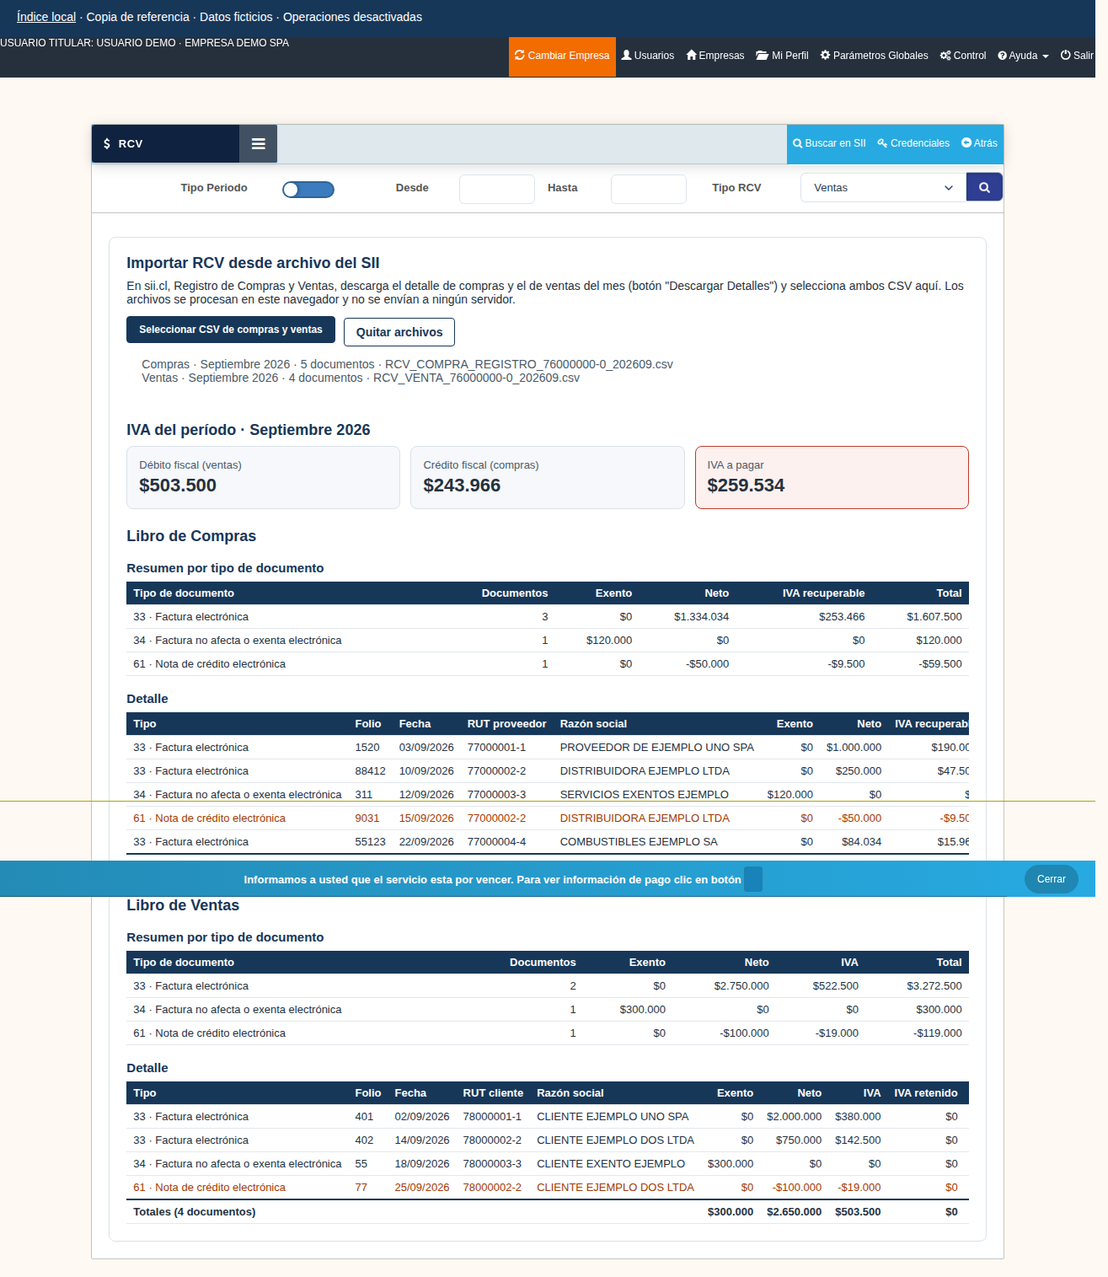
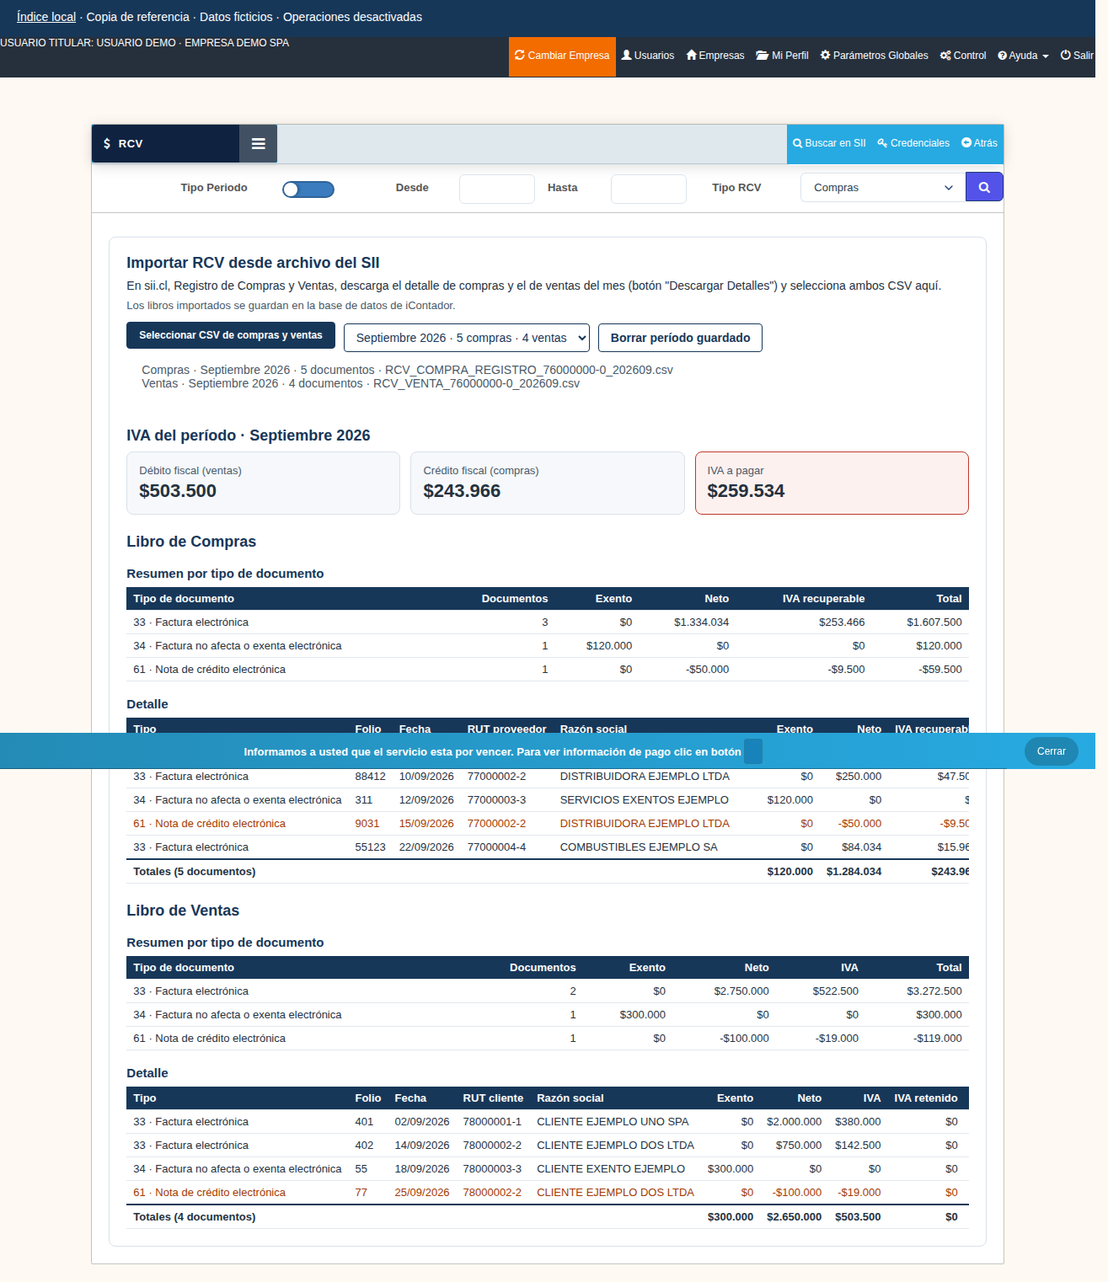
RCV: guardar los libros importados en una base de datos con PHP
API PHP con PDO (MySQL configurable, SQLite por defecto) que guarda,
lee y borra los documentos del RCV por período. La pantalla RCV guarda
cada importación y vuelve a mostrar los períodos guardados; sin servidor
PHP sigue funcionando solo en el navegador.

Claude-Session: https://claude.ai/code/session_01CVbciLJvmELGSoH7d6rteB

diff --git a/assets/rcv-import.js b/assets/rcv-import.js
@@ -49,7 +49,9 @@
  const COMPRAS_FIELDS=['exento','neto','iva','ivaNoRec','ivaUsoComun','otros','total'];
  const VENTAS_FIELDS=['exento','neto','iva','ivaRetenido','otros','total'];
  function buildBooks(parsed){
-  const compras=parsed.filter(p=>p.kind==='compras').flatMap(p=>p.docs),ventas=parsed.filter(p=>p.kind==='ventas').flatMap(p=>p.docs);
+  // Los documentos leídos desde la base de datos no traen nombre de tipo ni signo: se recalculan aquí.
+  const prep=d=>({...d,tipoNombre:DOC_TYPES[d.tipo]||('Documento '+d.tipo),signo:CREDIT_NOTES.has(d.tipo)?-1:1});
+  const compras=parsed.filter(p=>p.kind==='compras').flatMap(p=>p.docs.map(prep)),ventas=parsed.filter(p=>p.kind==='ventas').flatMap(p=>p.docs.map(prep));
   const tc=totals(compras,COMPRAS_FIELDS),tv=totals(ventas,VENTAS_FIELDS);
   // Débito: IVA de ventas menos el IVA retenido por el comprador (cambio de sujeto). Crédito: IVA recuperable de compras.
   const debito=tv.iva-tv.ivaRetenido,credito=tc.iva,diferencia=debito-credito;
@@ -89,38 +91,78 @@
   return el('section',{class:'rcv-iva'},el('h3',null,'IVA del período · '+formatPeriod(books.period)),el('div',{class:'rcv-cards'},card('Débito fiscal (ventas)',money(i.debito)),card('Crédito fiscal (compras)',money(i.credito)),card(result[0],result[1],result[2])),...notes.map(n=>el('p',{class:'rcv-note'},n)));
  }
 
- const state={files:[]};
+ // Con el servidor PHP (api/rcv.php) los libros se guardan en la base de datos; sin él, solo se muestran en este navegador.
+ const API='../api/rcv.php';
+ const state={files:[],server:false,periods:[],period:null};
+ async function request(method,query,body){
+  const res=await fetch(API+(query||''),{method,headers:body?{'Content-Type':'application/json'}:{},body:body?JSON.stringify(body):undefined});
+  const data=await res.json().catch(()=>({}));if(!res.ok)throw new Error(data.error||('Error '+res.status+' del servidor.'));return data;
+ }
+ function setMsg(text){document.getElementById('rcv-import-msg').textContent=text||'';}
  function render(){
-  const out=document.getElementById('rcv-import-result'),msg=document.getElementById('rcv-import-msg');out.replaceChildren();
+  const out=document.getElementById('rcv-import-result');out.replaceChildren();
   const list=document.getElementById('rcv-import-files');list.replaceChildren(...state.files.map(f=>el('li',null,(f.kind==='compras'?'Compras':'Ventas')+' · '+formatPeriod(f.period)+' · '+f.docs.length+' documentos · '+f.fileName)));
-  document.getElementById('rcv-import-clear').hidden=!state.files.length;
+  const clear=document.getElementById('rcv-import-clear');clear.hidden=!state.files.length;clear.textContent=state.server?'Borrar período guardado':'Quitar archivos';
+  const select=document.getElementById('rcv-import-periods');select.hidden=!state.server||!state.periods.length;
+  select.replaceChildren(el('option',{value:''},'Períodos guardados'),...state.periods.map(p=>{const o=el('option',{value:p.period},formatPeriod(p.period)+' · '+p.compras+' compras · '+p.ventas+' ventas');if(p.period===state.period)o.selected=true;return o;}));
   const welcome=document.querySelector('#contenido_rcv .welcome-royal-container')?.closest('.container-fluid');if(welcome)welcome.style.display=state.files.length?'none':'';
   if(!state.files.length)return;
   const books=buildBooks(state.files);
-  if(books.periods.length>1)msg.textContent='Los archivos cargados son de períodos distintos ('+books.periods.map(formatPeriod).join(', ')+'). El IVA suma todos los documentos.';
+  if(books.periods.length>1)setMsg('Los archivos cargados son de períodos distintos ('+books.periods.map(formatPeriod).join(', ')+'). El IVA suma todos los documentos.');
   out.append(ivaSection(books),bookSection('compras',books.compras),bookSection('ventas',books.ventas));
  }
+ async function openPeriod(period){
+  state.period=period||null;
+  state.files=period?(await request('GET','?periodo='+encodeURIComponent(period))).libros:[];
+  render();
+ }
+ async function refreshPeriods(){state.periods=(await request('GET')).periodos;}
  function showBook(){const select=document.getElementById('rcv_filtro_tipoRCV');const kind=select&&select.selectedIndex===1?'ventas':'compras';document.querySelector('#rcv-import-result .rcv-book[data-book="'+kind+'"]')?.scrollIntoView({behavior:'smooth',block:'start'});}
  async function readFile(file){const buf=await file.arrayBuffer();try{return new TextDecoder('utf-8',{fatal:true}).decode(buf);}catch{return new TextDecoder('windows-1252').decode(buf);}}
  async function load(files){
-  const msg=document.getElementById('rcv-import-msg');msg.textContent='';const errors=[];
-  for(const file of files){try{const parsed=parseRcv(await readFile(file),file.name);state.files=state.files.filter(f=>!(f.kind===parsed.kind&&f.period===parsed.period));state.files.push(parsed);}catch(e){errors.push(file.name+': '+e.message);}}
-  render();if(errors.length)msg.textContent=errors.join(' ');
+  setMsg('');const errors=[],parsedFiles=[];
+  for(const file of files){try{parsedFiles.push(parseRcv(await readFile(file),file.name));}catch(e){errors.push(file.name+': '+e.message);}}
+  if(state.server){
+   let saved=null;
+   for(const parsed of parsedFiles){
+    if(!parsed.period){errors.push(parsed.fileName+': no se pudo determinar el período.');continue;}
+    try{await request('POST','',{kind:parsed.kind,period:parsed.period,fileName:parsed.fileName,docs:parsed.docs});saved=parsed.period;}catch(e){errors.push(parsed.fileName+': '+e.message);}
+   }
+   try{await refreshPeriods();if(saved)await openPeriod(saved);else render();}catch(e){errors.push(e.message);}
+  }else{
+   for(const parsed of parsedFiles){state.files=state.files.filter(f=>!(f.kind===parsed.kind&&f.period===parsed.period));state.files.push(parsed);}
+   render();
+  }
+  if(errors.length)setMsg(errors.join(' '));
+ }
+ async function clearAll(){
+  if(!state.server){state.files=[];setMsg('');render();return;}
+  if(!state.period||!window.confirm('¿Borrar de la base de datos los libros de '+formatPeriod(state.period)+'?'))return;
+  try{await request('DELETE','?periodo='+encodeURIComponent(state.period));await refreshPeriods();await openPeriod(null);setMsg('');}catch(e){setMsg(e.message);}
+ }
+ async function connect(){
+  const note=document.getElementById('rcv-import-storage');
+  try{await refreshPeriods();state.server=true;note.textContent='Los libros importados se guardan en la base de datos de iContador.';if(state.periods.length)await openPeriod(state.periods[0].period);else render();}
+  catch{state.server=false;note.textContent='Sin servidor PHP: los archivos se procesan en este navegador y no se guardan. Inicia la copia con "npm run start:php" para guardarlos.';render();}
  }
  function init(){
   const host=document.getElementById('contenido_rcv');if(!host)return;
   const input=el('input',{type:'file',id:'rcv-import-input',accept:'.csv,text/csv',multiple:''});
   const clear=el('button',{type:'button',id:'rcv-import-clear',class:'rcv-btn-secondary'},'Quitar archivos');clear.hidden=true;
+  const periods=el('select',{id:'rcv-import-periods',class:'rcv-select','aria-label':'Períodos guardados'});periods.hidden=true;
   const panel=el('div',{class:'rcv-import',id:'rcv-import'},
    el('h3',null,'Importar RCV desde archivo del SII'),
-   el('p',null,'En sii.cl, Registro de Compras y Ventas, descarga el detalle de compras y el de ventas del mes (botón "Descargar Detalles") y selecciona ambos CSV aquí. Los archivos se procesan en este navegador y no se envían a ningún servidor.'),
-   el('div',{class:'rcv-import-actions'},el('label',{class:'rcv-btn',for:'rcv-import-input'},'Seleccionar CSV de compras y ventas'),input,clear),
+   el('p',null,'En sii.cl, Registro de Compras y Ventas, descarga el detalle de compras y el de ventas del mes (botón "Descargar Detalles") y selecciona ambos CSV aquí.'),
+   el('p',{id:'rcv-import-storage',class:'rcv-note'}),
+   el('div',{class:'rcv-import-actions'},el('label',{class:'rcv-btn',for:'rcv-import-input'},'Seleccionar CSV de compras y ventas'),input,periods,clear),
    el('ul',{id:'rcv-import-files',class:'rcv-files'}),el('p',{id:'rcv-import-msg',class:'rcv-msg',role:'status'}),el('div',{id:'rcv-import-result'}));
   host.prepend(panel);
   input.addEventListener('change',()=>{load([...input.files]);input.value='';});
-  clear.addEventListener('click',e=>{e.stopPropagation();state.files=[];document.getElementById('rcv-import-msg').textContent='';render();});
-  // Con archivos cargados, la lupa de "Tipo RCV" lleva al libro elegido en vez del aviso de operación desactivada.
+  periods.addEventListener('change',()=>{openPeriod(periods.value).catch(e=>setMsg(e.message));});
+  clear.addEventListener('click',e=>{e.stopPropagation();clearAll();});
+  // Con libros cargados, la lupa de "Tipo RCV" lleva al libro elegido en vez del aviso de operación desactivada.
   document.getElementById('btn_rcv_filtro')?.addEventListener('click',e=>{if(!state.files.length)return;e.preventDefault();e.stopPropagation();showBook();});
+  connect();
  }
  if(document.readyState==='loading')document.addEventListener('DOMContentLoaded',init);else init();
 })(typeof window!=='undefined'?window:globalThis);

diff --git a/views/rcv.html b/views/rcv.html
@@ -1,5 +1,5 @@
 <!doctype html>
-<html lang="en"><head><meta charset="utf-8"><meta http-equiv="Content-Security-Policy" content="default-src 'none'; img-src 'self' data:; style-src 'self' 'unsafe-inline'; font-src 'self'; script-src 'self'; connect-src 'none'; form-action 'none'; base-uri 'none'">
+<html lang="en"><head><meta charset="utf-8"><meta http-equiv="Content-Security-Policy" content="default-src 'none'; img-src 'self' data:; style-src 'self' 'unsafe-inline'; font-src 'self'; script-src 'self'; connect-src 'self'; form-action 'none'; base-uri 'none'">
         
         <meta name="description" content="Contabilidad, remuneraciones Icontador, Programa contable, Software de remuneraciones, contable. Plan de cuentas en Contabilidad online.">
         <meta name="keywords" content="Software contable, Software de remuneraciones, remuneraciones, contabilidad, sistema contable, contabilidad online, programa contable, plan de cuentas">

diff --git a/assets/rcv-import.css b/assets/rcv-import.css
@@ -15,3 +15,4 @@
 .rcv-table th,.rcv-table td{padding:6px 8px;border-bottom:1px solid #e3e8ee;text-align:left;white-space:nowrap}
 .rcv-table th{background:#173759;color:#fff}.rcv-table .num{text-align:right;font-variant-numeric:tabular-nums}
 .rcv-table tfoot td{font-weight:bold;border-top:2px solid #173759}.rcv-table tr.rcv-nc td{color:#a33a00}.rcv-empty{color:#4a5a69}
+.rcv-select{padding:7px 10px;border:1px solid #173759;border-radius:4px;background:#fff;color:#173759}

diff --git a/api/lib/rcv.php b/api/lib/rcv.php
@@ -1,0 +1,105 @@
+<?php
+declare(strict_types=1);
+/* Persistencia del RCV: documentos de compras y ventas por período. */
+
+const RCV_LIBROS = ['compras', 'ventas'];
+const RCV_MONTOS = ['exento', 'neto', 'iva', 'iva_no_rec', 'iva_uso_comun', 'iva_retenido', 'otros', 'total'];
+// Nombre en la API (JavaScript) => columna
+const RCV_CAMPOS = ['tipo' => 'tipo_doc', 'tipoOperacion' => 'tipo_operacion', 'rut' => 'rut', 'razon' => 'razon_social', 'folio' => 'folio', 'fecha' => 'fecha',
+    'exento' => 'exento', 'neto' => 'neto', 'iva' => 'iva', 'ivaNoRec' => 'iva_no_rec', 'ivaUsoComun' => 'iva_uso_comun', 'ivaRetenido' => 'iva_retenido', 'otros' => 'otros', 'total' => 'total'];
+const RCV_TEXTOS = ['tipo_operacion' => 60, 'rut' => 12, 'razon_social' => 255, 'folio' => 20, 'fecha' => 10];
+const RCV_MAX_DOCUMENTOS = 20000;
+
+final class RcvError extends RuntimeException {}
+
+function rcv_schema(PDO $db): void {
+    if ($db->getAttribute(PDO::ATTR_DRIVER_NAME) === 'mysql') {
+        $db->exec(file_get_contents(dirname(__DIR__) . '/schema/rcv.mysql.sql'));
+        return;
+    }
+    $montos = implode(', ', array_map(fn($c) => "$c INTEGER NOT NULL DEFAULT 0", RCV_MONTOS));
+    $db->exec("CREATE TABLE IF NOT EXISTS rcv_documentos (
+        id INTEGER PRIMARY KEY AUTOINCREMENT, periodo TEXT NOT NULL, libro TEXT NOT NULL, archivo TEXT NOT NULL DEFAULT '',
+        tipo_doc INTEGER NOT NULL, tipo_operacion TEXT NOT NULL DEFAULT '', rut TEXT NOT NULL DEFAULT '', razon_social TEXT NOT NULL DEFAULT '',
+        folio TEXT NOT NULL DEFAULT '', fecha TEXT NOT NULL DEFAULT '', $montos, creado_en TEXT NOT NULL DEFAULT CURRENT_TIMESTAMP)");
+    $db->exec('CREATE INDEX IF NOT EXISTS idx_rcv_periodo_libro ON rcv_documentos (periodo, libro)');
+}
+
+function rcv_validar_periodo($periodo): string {
+    if (!is_string($periodo) || !preg_match('/^20\d{2}-(0[1-9]|1[0-2])$/', $periodo)) throw new RcvError('Período inválido; use AAAA-MM.');
+    return $periodo;
+}
+function rcv_validar_libro($libro): string {
+    if (!in_array($libro, RCV_LIBROS, true)) throw new RcvError('Libro inválido; use compras o ventas.');
+    return $libro;
+}
+
+/** Reemplaza los documentos de un libro y período por los recibidos. Devuelve cuántos se guardaron. */
+function rcv_guardar(PDO $db, array $datos): int {
+    $periodo = rcv_validar_periodo($datos['period'] ?? null);
+    $libro = rcv_validar_libro($datos['kind'] ?? null);
+    $docs = $datos['docs'] ?? null;
+    if (!is_array($docs) || !array_is_list($docs)) throw new RcvError('Faltan los documentos.');
+    if (count($docs) > RCV_MAX_DOCUMENTOS) throw new RcvError('Demasiados documentos en un solo archivo.');
+    $archivo = mb_substr(is_string($datos['fileName'] ?? null) ? $datos['fileName'] : '', 0, 255);
+    $filas = [];
+    foreach ($docs as $i => $doc) {
+        if (!is_array($doc)) throw new RcvError('Documento ' . ($i + 1) . ' inválido.');
+        $fila = [];
+        foreach (RCV_CAMPOS as $campo => $columna) {
+            $valor = $doc[$campo] ?? ($columna === 'tipo_doc' ? null : (isset(RCV_TEXTOS[$columna]) ? '' : 0));
+            if ($columna === 'tipo_doc' || in_array($columna, RCV_MONTOS, true)) {
+                if (!is_int($valor) && !(is_float($valor) && floor($valor) === $valor)) throw new RcvError('Documento ' . ($i + 1) . ': ' . $campo . ' debe ser un número entero.');
+                $fila[$columna] = (int)$valor;
+            } else {
+                $fila[$columna] = mb_substr(is_scalar($valor) ? trim((string)$valor) : '', 0, RCV_TEXTOS[$columna]);
+            }
+        }
+        if ($fila['tipo_doc'] <= 0) throw new RcvError('Documento ' . ($i + 1) . ' sin tipo de documento.');
+        $filas[] = $fila;
+    }
+    $columnas = array_merge(['periodo', 'libro', 'archivo'], array_values(RCV_CAMPOS));
+    $insert = $db->prepare('INSERT INTO rcv_documentos (' . implode(', ', $columnas) . ') VALUES (' . implode(', ', array_fill(0, count($columnas), '?')) . ')');
+    $db->beginTransaction();
+    try {
+        $db->prepare('DELETE FROM rcv_documentos WHERE periodo = ? AND libro = ?')->execute([$periodo, $libro]);
+        foreach ($filas as $fila) $insert->execute(array_merge([$periodo, $libro, $archivo], array_values($fila)));
+        $db->commit();
+    } catch (Throwable $e) {
+        $db->rollBack();
+        throw $e;
+    }
+    return count($filas);
+}
+
+/** Documentos de un período agrupados por libro, con la misma forma que produce RcvImport.parseRcv. */
+function rcv_leer(PDO $db, string $periodo): array {
+    $periodo = rcv_validar_periodo($periodo);
+    $st = $db->prepare('SELECT * FROM rcv_documentos WHERE periodo = ? ORDER BY libro, id');
+    $st->execute([$periodo]);
+    $libros = [];
+    foreach ($st as $fila) {
+        $libro = $fila['libro'];
+        $libros[$libro] ??= ['kind' => $libro, 'period' => $periodo, 'fileName' => $fila['archivo'], 'docs' => []];
+        $doc = [];
+        foreach (RCV_CAMPOS as $campo => $columna) $doc[$campo] = ($columna === 'tipo_doc' || in_array($columna, RCV_MONTOS, true)) ? (int)$fila[$columna] : $fila[$columna];
+        $libros[$libro]['docs'][] = $doc;
+    }
+    return array_values($libros);
+}
+
+function rcv_periodos(PDO $db): array {
+    $st = $db->query('SELECT periodo, libro, COUNT(*) AS documentos FROM rcv_documentos GROUP BY periodo, libro ORDER BY periodo DESC, libro');
+    $out = [];
+    foreach ($st as $fila) {
+        $out[$fila['periodo']] ??= ['period' => $fila['periodo'], 'compras' => 0, 'ventas' => 0];
+        $out[$fila['periodo']][$fila['libro']] = (int)$fila['documentos'];
+    }
+    return array_values($out);
+}
+
+function rcv_borrar(PDO $db, string $periodo): int {
+    $st = $db->prepare('DELETE FROM rcv_documentos WHERE periodo = ?');
+    $st->execute([rcv_validar_periodo($periodo)]);
+    return $st->rowCount();
+}

diff --git a/tools/test-rcv-api.php b/tools/test-rcv-api.php
@@ -1,0 +1,27 @@
+<?php
+// Prueba de la persistencia del RCV con SQLite en memoria: php tools/test-rcv-api.php
+declare(strict_types=1);
+require dirname(__DIR__) . '/api/lib/rcv.php';
+function check(bool $ok, string $msg): void { if (!$ok) { fwrite(STDERR, "FALLA: $msg\n"); exit(1); } }
+
+$db = new PDO('sqlite::memory:', null, null, [PDO::ATTR_ERRMODE => PDO::ERRMODE_EXCEPTION, PDO::ATTR_DEFAULT_FETCH_MODE => PDO::FETCH_ASSOC]);
+rcv_schema($db);
+rcv_schema($db); // idempotente
+$compra = ['tipo' => 33, 'tipoOperacion' => 'Del Giro', 'rut' => '77000001-1', 'razon' => 'PROVEEDOR', 'folio' => '1520', 'fecha' => '03/09/2026', 'exento' => 0, 'neto' => 1000000, 'iva' => 190000, 'ivaNoRec' => 0, 'ivaUsoComun' => 0, 'otros' => 0, 'total' => 1190000];
+$nc = ['tipo' => 61, 'folio' => '9', 'neto' => 50000, 'iva' => 9500, 'total' => 59500];
+check(rcv_guardar($db, ['kind' => 'compras', 'period' => '2026-09', 'fileName' => 'c.csv', 'docs' => [$compra, $nc]]) === 2, 'guardar compras');
+check(rcv_guardar($db, ['kind' => 'ventas', 'period' => '2026-09', 'docs' => [['tipo' => 33, 'folio' => '401', 'neto' => 2000000, 'iva' => 380000, 'total' => 2380000]]]) === 1, 'guardar ventas');
+// Reimportar el mismo libro reemplaza, no duplica.
+check(rcv_guardar($db, ['kind' => 'compras', 'period' => '2026-09', 'fileName' => 'c2.csv', 'docs' => [$compra, $nc]]) === 2, 'reimportar');
+$libros = rcv_leer($db, '2026-09');
+check(count($libros) === 2, 'dos libros');
+$compras = $libros[0];
+check($compras['kind'] === 'compras' && count($compras['docs']) === 2 && $compras['fileName'] === 'c2.csv', 'compras leídas');
+check($compras['docs'][0]['iva'] === 190000 && $compras['docs'][0]['razon'] === 'PROVEEDOR' && $compras['docs'][1]['tipo'] === 61, 'campos');
+check(rcv_periodos($db) === [['period' => '2026-09', 'compras' => 2, 'ventas' => 1]], 'períodos');
+foreach ([['kind' => 'otro', 'period' => '2026-09', 'docs' => []], ['kind' => 'compras', 'period' => '2026-13', 'docs' => []], ['kind' => 'compras', 'period' => '2026-09', 'docs' => [['tipo' => 33, 'iva' => 'mucho']]], ['kind' => 'compras', 'period' => '2026-09', 'docs' => [['folio' => '1']]]] as $malo) {
+    try { rcv_guardar($db, $malo); check(false, 'debió rechazar ' . json_encode($malo)); } catch (RcvError) {}
+}
+check(count(rcv_leer($db, '2026-09')[0]['docs']) === 2, 'un rechazo no borra lo guardado');
+check(rcv_borrar($db, '2026-09') === 3 && rcv_periodos($db) === [], 'borrar');
+echo "RCV PHP: guardar, reemplazar, leer, validar y borrar verificados\n";

diff --git a/api/rcv.php b/api/rcv.php
@@ -1,0 +1,45 @@
+<?php
+declare(strict_types=1);
+/* API del RCV.
+   GET    api/rcv.php                  -> períodos guardados
+   GET    api/rcv.php?periodo=AAAA-MM  -> libros del período
+   POST   api/rcv.php  {kind, period, fileName, docs}  -> reemplaza ese libro del período
+   DELETE api/rcv.php?periodo=AAAA-MM  -> borra el período */
+require __DIR__ . '/db.php';
+require __DIR__ . '/lib/rcv.php';
+
+header('Content-Type: application/json; charset=utf-8');
+header('Cache-Control: no-store');
+header('X-Content-Type-Options: nosniff');
+
+function responder(int $status, array $body): never {
+    http_response_code($status);
+    echo json_encode($body, JSON_UNESCAPED_UNICODE);
+    exit;
+}
+
+try {
+    $db = icontador_db();
+    rcv_schema($db);
+    $metodo = $_SERVER['REQUEST_METHOD'] ?? 'GET';
+    $periodo = isset($_GET['periodo']) ? (string)$_GET['periodo'] : null;
+    if ($metodo === 'GET') {
+        responder(200, $periodo === null ? ['periodos' => rcv_periodos($db)] : ['periodo' => $periodo, 'libros' => rcv_leer($db, $periodo)]);
+    }
+    if ($metodo === 'POST') {
+        if (stripos($_SERVER['CONTENT_TYPE'] ?? '', 'application/json') !== 0) responder(415, ['error' => 'Se espera JSON.']);
+        $datos = json_decode(file_get_contents('php://input'), true);
+        if (!is_array($datos)) responder(400, ['error' => 'JSON inválido.']);
+        responder(200, ['guardados' => rcv_guardar($db, $datos)]);
+    }
+    if ($metodo === 'DELETE') {
+        responder(200, ['borrados' => rcv_borrar($db, (string)$periodo)]);
+    }
+    header('Allow: GET, POST, DELETE');
+    responder(405, ['error' => 'Método no permitido.']);
+} catch (RcvError $e) {
+    responder(422, ['error' => $e->getMessage()]);
+} catch (Throwable $e) {
+    error_log('rcv.php: ' . $e->getMessage());
+    responder(500, ['error' => 'No se pudo acceder a la base de datos.']);
+}

diff --git a/api/db.php b/api/db.php
@@ -1,0 +1,24 @@
+<?php
+declare(strict_types=1);
+/* Conexión PDO compartida. Usa MySQL cuando hay configuración (api/config.php o variables de entorno)
+   y, si no, un archivo SQLite local en data/icontador.sqlite para desarrollo. */
+function icontador_db(): PDO {
+    static $pdo = null;
+    if ($pdo instanceof PDO) return $pdo;
+    $config = is_file(__DIR__ . '/config.php') ? require __DIR__ . '/config.php' : [];
+    $dsn = getenv('ICONTADOR_DB_DSN') ?: ($config['dsn'] ?? '');
+    $user = getenv('ICONTADOR_DB_USER') ?: ($config['user'] ?? null);
+    $pass = getenv('ICONTADOR_DB_PASS') ?: ($config['password'] ?? null);
+    if ($dsn === '') {
+        $dir = dirname(__DIR__) . '/data';
+        if (!is_dir($dir)) mkdir($dir, 0700, true);
+        $dsn = 'sqlite:' . $dir . '/icontador.sqlite';
+    }
+    $pdo = new PDO($dsn, $user, $pass, [
+        PDO::ATTR_ERRMODE => PDO::ERRMODE_EXCEPTION,
+        PDO::ATTR_DEFAULT_FETCH_MODE => PDO::FETCH_ASSOC,
+        PDO::ATTR_EMULATE_PREPARES => false,
+    ]);
+    if ($pdo->getAttribute(PDO::ATTR_DRIVER_NAME) === 'mysql') $pdo->exec("SET NAMES utf8mb4");
+    return $pdo;
+}

diff --git a/tools/php-router.php b/tools/php-router.php
@@ -1,0 +1,26 @@
+<?php
+// Servidor local con PHP: php -S 127.0.0.1:4173 tools/php-router.php
+// Sirve la copia igual que tools/serve.cjs y ejecuta solo los endpoints de api/.
+$root = dirname(__DIR__);
+$path = rawurldecode(parse_url($_SERVER['REQUEST_URI'], PHP_URL_PATH) ?: '/');
+if ($path === '/') $path = '/index.html';
+if (str_contains($path, "\0") || str_contains($path, '..') || preg_match('#/(node_modules|\.git|reference|tools|data|samples)(/|$)#', $path)) {
+    http_response_code(403);
+    return true;
+}
+if (preg_match('#^/api/[a-z0-9_-]+\.php$#', $path) && is_file($root . $path) && $path !== '/api/db.php' && !str_starts_with($path, '/api/config')) {
+    require $root . $path;
+    return true;
+}
+if (str_ends_with($path, '.php') || str_starts_with($path, '/api/')) {
+    http_response_code(404);
+    return true;
+}
+$file = $root . $path;
+if (!is_file($file)) {
+    http_response_code(404);
+    echo 'Archivo no encontrado';
+    return true;
+}
+header('Cache-Control: no-store');
+return false;

diff --git a/api/config.example.php b/api/config.example.php
@@ -1,0 +1,8 @@
+<?php
+// Copia este archivo como api/config.php (no se sube al repositorio) para usar MySQL.
+// También puedes usar las variables de entorno ICONTADOR_DB_DSN, ICONTADOR_DB_USER e ICONTADOR_DB_PASS.
+return [
+    'dsn' => 'mysql:host=127.0.0.1;port=3306;dbname=icontador;charset=utf8mb4',
+    'user' => 'icontador',
+    'password' => '',
+];

diff --git a/README.md b/README.md
@@ -12,6 +12,16 @@ npm start
 
 Abre http://127.0.0.1:4173. El servidor escucha únicamente en tu equipo. No necesitas instalar dependencias para consultar la copia. También puedes abrir `index.html` directamente.
 
+## RCV con base de datos (PHP)
+
+La pantalla RCV importa los CSV de detalle de compras y ventas que se descargan del SII, arma ambos libros y calcula el IVA del mes. Para guardar los libros en la base de datos, inicia la copia con PHP 8.1 o superior:
+
+```powershell
+npm run start:php
+```
+
+Sin configuración usa SQLite en `data/icontador.sqlite`. Para MySQL, copia `api/config.example.php` como `api/config.php` con tus datos de conexión (o usa las variables `ICONTADOR_DB_DSN`, `ICONTADOR_DB_USER` e `ICONTADOR_DB_PASS`); la tabla está en `api/schema/rcv.mysql.sql` y se crea sola. Con `npm start` la importación funciona igual, pero no guarda nada. Hay CSV ficticios en `samples/`; `npm test` y `npm run test:php` comprueban el cálculo y el guardado.
+
 ## Trabajar con los archivos
 
 - `views/`: pantallas HTML editables recuperadas del navegador.
